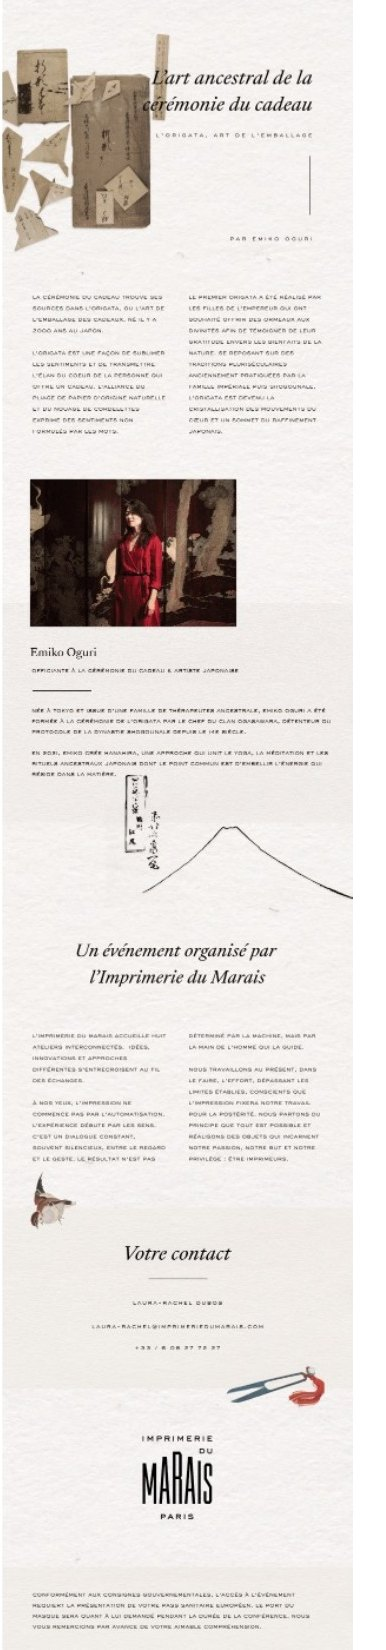
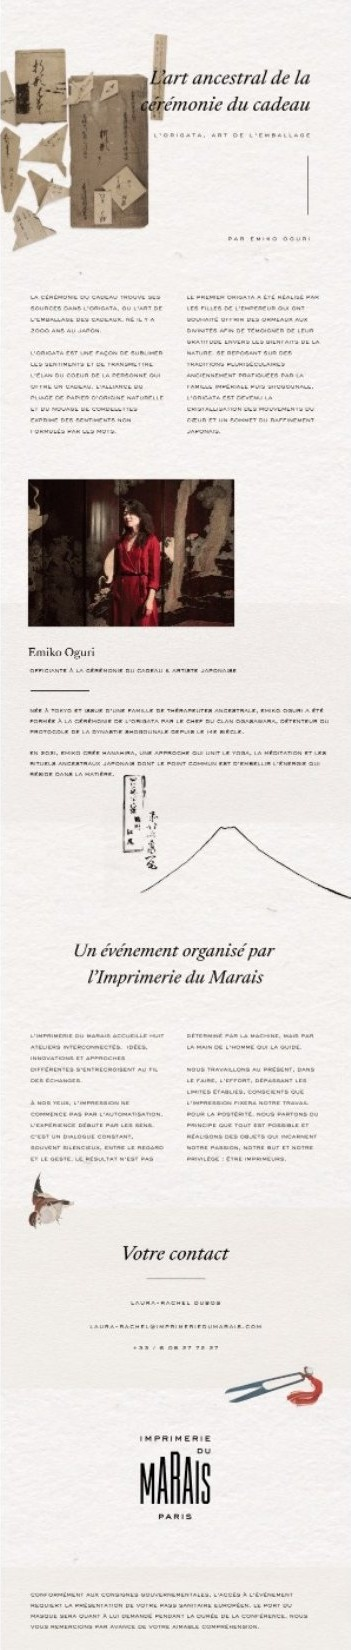
Ukiyo-e : marges blanches retirees des visuels

diff --git a/index.html b/index.html
@@ -368,7 +368,7 @@ const WRITINGS = [
     { label: "Conference 4 — Like the Sun, Like the Moon, Like Water, Like Gold · Read Excerpts", url: "lhc-conference-4-excerpts.pdf", pdf: true },
   ]},
   { title: "Ars Electronica", subtitle: "Critical Research on Art, Technology & Society", publication: "Cartier", period: "2022", role: "Research, Critical Analysis & Dialogues", text: "A critical cartography where artificial intelligence, ecological urgency, post-human imaginaries, and technological acceleration are approached as interconnected expressions of a broader cultural shift — technological futures understood as cultural and ethical landscapes shaped as much by imagination and myth as by code and computation.", links: [{ label: "Read Excerpts", url: "ars-electronica-excerpts.pdf", pdf: true }] },
-  { title: "Ukiyo-e: Art & Philosophy Conference", subtitle: "Japonism Event with Cartier & Sorbonne University", publication: "Imprimerie du Marais", period: "2021", role: "Strategy, Creative Direction & Event Management", text: "A site-specific conference held in a historic Parisian printing manufactory. The programme included a keynote by Cyrille Vigneron alongside an intervention by Sophie Basch, Sorbonne professor and Proust specialist, establishing bridges between Japanese art, French literature, and Western visual thought.", links: [], mosaics: [{ label: "View the Invitation", title: "Invitation", strips: true, items: [{ src: "ukiyo-04-invitation.jpg", c: 1111 }, { src: "ukiyo-01-programme.jpg", c: 429 }, { src: "ukiyo-02-conferenciers.jpg", c: 700 }, { src: "ukiyo-03-origata.jpg", c: 386 }] }] },
+  { title: "Ukiyo-e: Art & Philosophy Conference", subtitle: "Japonism Event with Cartier & Sorbonne University", publication: "Imprimerie du Marais", period: "2021", role: "Strategy, Creative Direction & Event Management", text: "A site-specific conference held in a historic Parisian printing manufactory. The programme included a keynote by Cyrille Vigneron alongside an intervention by Sophie Basch, Sorbonne professor and Proust specialist, establishing bridges between Japanese art, French literature, and Western visual thought.", links: [], mosaics: [{ label: "View the Invitation", title: "Invitation", strips: true, items: [{ src: "ukiyo-04-invitation.jpg", c: 1034 }, { src: "ukiyo-01-programme.jpg", c: 420 }, { src: "ukiyo-02-conferenciers.jpg", c: 673 }, { src: "ukiyo-03-origata.jpg", c: 351 }] }] },
 ];
 
 function useReveal(count, delay = 80) {
